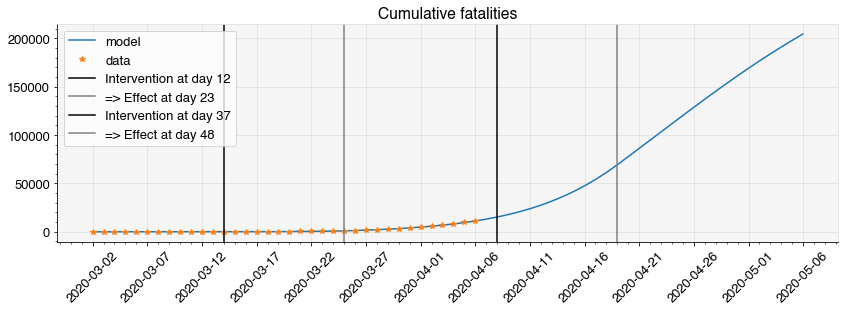
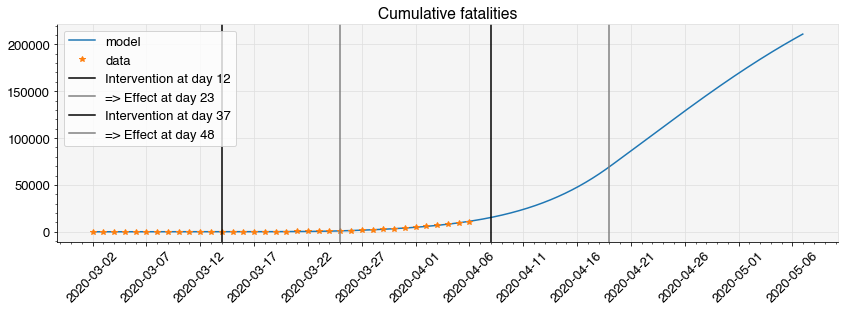
weekly crontab backup

diff --git a/01 - Daily_Report_Spain.md b/01 - Daily_Report_Spain.md
@@ -20,14 +20,14 @@ from ne_epidemic.utilities import sir_prediction_from_country
 sir_prediction_from_country('Spain')
 ```
 
-    Today's date: 2020-04-06 
+    Today's date: 2020-04-07 
     
     Country:  Spain
     - UCI database:  https://raw.githubusercontent.com/datadista/datasets/master/COVID%2019/ccaa_camas_uci_2017.csv
     - Total UCI beds:  4404
     - Fatalities database:  https://raw.githubusercontent.com/CSSEGISandData/COVID-19/master/csse_covid_19_data/csse_covid_19_time_series/time_series_covid19_deaths_global.csv
     - First day with more than 5 casualties (m/d/y):  3 / 7 / 2020
-    - Days since first fatalities:  30
+    - Days since first fatalities:  31
 
 
 
@@ -72,7 +72,7 @@ sir_prediction_from_country('Spain')
     
     Model name: optimized 2 pars
     
-    Simulated days: 44.0
+    Simulated days: 45.0
     Initially infected/Total population (N0/N): 32973/46660000 (70.7 per 100,000)
     beta (per day): 0.4 , nu (per day): 0.2
     1/beta (days): 2.3 , 1/nu (days): 5.0
@@ -87,18 +87,18 @@ sir_prediction_from_country('Spain')
     
     _____________________________________________________________________
     
-    MODEL'S OUTPUTS FOR TODAY: 2020-04-06
-       Infected: 2081168 (4.5%)
-       Recovered: 6780161 (14.5%)
-       Exposed to date: 8861329 (19.0%)
-       In ICU: 5827
-       Fatalities: 13560
+    MODEL'S OUTPUTS FOR TODAY: 2020-04-07
+       Infected: 2061748 (4.4%)
+       Recovered: 7194519 (15.4%)
+       Exposed to date: 9256267 (19.8%)
+       In ICU: 5772
+       Fatalities: 14389
      
-    MEDIUM TERM FORECAST (44 days from model start date): 
-       Percent of population exposed at end simulation: 27%
+    MEDIUM TERM FORECAST (45 days from model start date): 
+       Percent of population exposed at end simulation: 28%
        Peak ICU admissions:  5926  on day 2020-04-02
        (note model does not account for long ICU stays)
-       Total fatalities at end of simulation: 23386
+       Total fatalities at end of simulation: 23893
 
 
 
@@ -124,5 +124,5 @@ sir_prediction_from_country('Spain')
           The derivative of the quadratic is used to estimate doubling time and R(t).
     Rt estimated from doubling time using nu= 0.2
     
-    Run finished 2020-04-06 21:59:33.230815
+    Run finished 2020-04-07 06:53:37.083846
 

diff --git a/03 - Daily_Report_US.md b/03 - Daily_Report_US.md
@@ -18,14 +18,14 @@ from ne_epidemic.utilities import sir_prediction_from_country
 sir_prediction_from_country('US')
 ```
 
-    Today's date: 2020-04-06 
+    Today's date: 2020-04-07 
     
     Country:  US
     - UCI database:  https://sccm.org/Blog/March-2020/United-States-Resource-Availability-for-COVID-19
     - Total UCI beds:  96596
     - Fatalities database:  https://raw.githubusercontent.com/CSSEGISandData/COVID-19/master/csse_covid_19_data/csse_covid_19_time_series/time_series_covid19_deaths_global.csv
     - First day with more than 5 casualties (m/d/y):  3 / 2 / 2020
-    - Days since first fatalities:  35
+    - Days since first fatalities:  36
 
 
 
@@ -70,7 +70,7 @@ sir_prediction_from_country('US')
     
     Model name: optimized 2 pars
     
-    Simulated days: 65.0
+    Simulated days: 66.0
     Initially infected/Total population (N0/N): 353/327200000 (0.1 per 100,000)
     beta (per day): 0.5 , nu (per day): 0.2
     1/beta (days): 1.9 , 1/nu (days): 5.0
@@ -85,18 +85,18 @@ sir_prediction_from_country('US')
     
     _____________________________________________________________________
     
-    MODEL'S OUTPUTS FOR TODAY: 2020-04-06
-       Infected: 4438621 (1.4%)
-       Recovered: 5584988 (1.7%)
-       Exposed to date: 10023609 (3.1%)
-       In ICU: 11096
-       Fatalities: 11169
+    MODEL'S OUTPUTS FOR TODAY: 2020-04-07
+       Infected: 5091933 (1.6%)
+       Recovered: 6536684 (2.0%)
+       Exposed to date: 11628617 (3.6%)
+       In ICU: 12729
+       Fatalities: 13073
      
-    MEDIUM TERM FORECAST (65 days from model start date): 
-       Percent of population exposed at end simulation: 36%
+    MEDIUM TERM FORECAST (66 days from model start date): 
+       Percent of population exposed at end simulation: 37%
        Peak ICU admissions:  53460  on day 2020-04-22
        (note model does not account for long ICU stays)
-       Total fatalities at end of simulation: 204537
+       Total fatalities at end of simulation: 210972
 
 
 
@@ -122,5 +122,5 @@ sir_prediction_from_country('US')
           The derivative of the quadratic is used to estimate doubling time and R(t).
     Rt estimated from doubling time using nu= 0.2
     
-    Run finished 2020-04-06 22:00:20.235492
+    Run finished 2020-04-07 06:54:13.574261
 

diff --git a/02 - Daily_Report_Italy.md b/02 - Daily_Report_Italy.md
@@ -20,12 +20,12 @@ from ne_epidemic.utilities import sir_prediction_from_country
 sir_prediction_from_country('Italy')
 ```
 
-    Today's date: 2020-04-06 
+    Today's date: 2020-04-07 
     
     Country:  Italy
     - Fatalities database:  https://raw.githubusercontent.com/CSSEGISandData/COVID-19/master/csse_covid_19_data/csse_covid_19_time_series/time_series_covid19_deaths_global.csv
     - First day with more than 5 casualties (m/d/y):  2 / 24 / 2020
-    - Days since first fatalities:  42
+    - Days since first fatalities:  43
 
 
 
@@ -70,7 +70,7 @@ sir_prediction_from_country('Italy')
     
     Model name: optimized 2 pars
     
-    Simulated days: 63.0
+    Simulated days: 64.0
     Initially infected/Total population (N0/N): 26622/60480000 (44.0 per 100,000)
     beta (per day): 0.4 , nu (per day): 0.2
     1/beta (days): 2.6 , 1/nu (days): 5.0
@@ -85,18 +85,18 @@ sir_prediction_from_country('Italy')
     
     _____________________________________________________________________
     
-    MODEL'S OUTPUTS FOR TODAY: 2020-04-06
-       Infected: 2415496 (4.0%)
-       Recovered: 10186892 (16.8%)
-       Exposed to date: 12602388 (20.8%)
-       In ICU: 3019
-       Fatalities: 16978
+    MODEL'S OUTPUTS FOR TODAY: 2020-04-07
+       Infected: 2405945 (4.0%)
+       Recovered: 10669114 (17.6%)
+       Exposed to date: 13075059 (21.6%)
+       In ICU: 3007
+       Fatalities: 17781
      
-    MEDIUM TERM FORECAST (63 days from model start date): 
-       Percent of population exposed at end simulation: 33%
+    MEDIUM TERM FORECAST (64 days from model start date): 
+       Percent of population exposed at end simulation: 34%
        Peak ICU admissions:  3026  on day 2020-04-04
        (note model does not account for long ICU stays)
-       Total fatalities at end of simulation: 31464
+       Total fatalities at end of simulation: 31976
 
 
 
@@ -122,7 +122,7 @@ sir_prediction_from_country('Italy')
           The derivative of the quadratic is used to estimate doubling time and R(t).
     Rt estimated from doubling time using nu= 0.2
     
-    Run finished 2020-04-06 21:59:53.191322
+    Run finished 2020-04-07 06:53:51.674822
 
 
 

diff --git a/00 - Data_Overview.md b/00 - Data_Overview.md
@@ -24,7 +24,7 @@ _ = get_doubling_time(df, nu=1/5, ndays=7)
 
     - Fatalities database:  https://raw.githubusercontent.com/CSSEGISandData/COVID-19/master/csse_covid_19_data/csse_covid_19_time_series/time_series_covid19_deaths_global.csv
     - First day with more than 5 casualties (m/d/y):  3 / 7 / 2020
-    - Days since first fatalities:  30
+    - Days since first fatalities:  31
 
 
 
@@ -59,7 +59,7 @@ _ = get_doubling_time(df, nu=1/5, ndays=7)
 
     - Fatalities database:  https://raw.githubusercontent.com/CSSEGISandData/COVID-19/master/csse_covid_19_data/csse_covid_19_time_series/time_series_covid19_deaths_global.csv
     - First day with more than 5 casualties (m/d/y):  2 / 24 / 2020
-    - Days since first fatalities:  42
+    - Days since first fatalities:  43
 
 
 
@@ -94,7 +94,7 @@ _ = get_doubling_time(df, nu=1/5, ndays=7)
 
     - Fatalities database:  https://raw.githubusercontent.com/CSSEGISandData/COVID-19/master/csse_covid_19_data/csse_covid_19_time_series/time_series_covid19_deaths_global.csv
     - First day with more than 5 casualties (m/d/y):  3 / 20 / 2020
-    - Days since first fatalities:  17
+    - Days since first fatalities:  18
 
 
 
@@ -129,7 +129,7 @@ _ = get_doubling_time(df, nu=1/5, ndays=7)
 
     - Fatalities database:  https://raw.githubusercontent.com/CSSEGISandData/COVID-19/master/csse_covid_19_data/csse_covid_19_time_series/time_series_covid19_deaths_global.csv
     - First day with more than 5 casualties (m/d/y):  3 / 5 / 2020
-    - Days since first fatalities:  32
+    - Days since first fatalities:  33
 
 
 
@@ -164,7 +164,7 @@ _ = get_doubling_time(df, nu=1/5, ndays=7)
 
     - Fatalities database:  https://raw.githubusercontent.com/CSSEGISandData/COVID-19/master/csse_covid_19_data/csse_covid_19_time_series/time_series_covid19_deaths_global.csv
     - First day with more than 5 casualties (m/d/y):  3 / 2 / 2020
-    - Days since first fatalities:  35
+    - Days since first fatalities:  36
 
 
 
